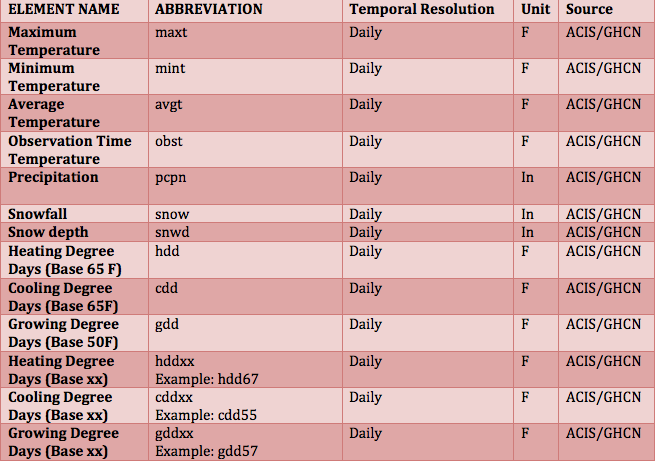
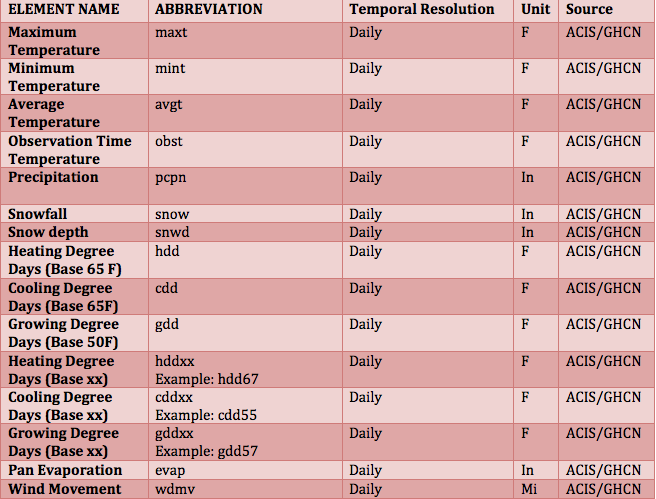
sodxtrmts visualize plotline biug fix

diff --git a/my_acis/templates/my_data/apps/station/home.html b/my_acis/templates/my_data/apps/station/home.html
@@ -112,22 +112,22 @@
             </tr>
             <tr>
                 <td>
-                    {%if stn_id%}
-                        <a  href="{{TOOLS_URL}}station/sodxtrmts/?stn_id={{stn_id}}"><img class="sidebar" alt="Sodxtrmts" title="Sodxtrmts" src="{{MEDIA_URL}}img/SodxtrmtsTS.png"></a>
+                    {%if initial %}
+                        <a  href="{{TOOLS_URL}}station/sodxtrmts/?{%for key, val in initial.items %}{{key}}={{val}}&{%endfor%}"><img class="sidebar" alt="Sodxtrmts" title="Sodxtrmts" src="{{MEDIA_URL}}img/SodxtrmtsTS.png"></a>
                     {%else%}
                         <a  href="{{TOOLS_URL}}station/sodxtrmts/"><img  class="sidebar" alt="Sodxtrmts" title="Sodxtrmts" src="{{MEDIA_URL}}img/SodxtrmtsTS.png"></a>
                     {%endif%}
                 </td>
                 <td>
-                    {%if stn_id%}
-                        <a  href="{{TOOLS_URL}}station/monthly_aves/?stn_id={{stn_id}}"><img class="sidebar" alt="MonAves" title="MonAves" src="{{MEDIA_URL}}img/MonAves.png"></a>
+                    {%if initial%}
+                        <a  href="{{TOOLS_URL}}station/monthly_aves/?{%for key, val in initial.items %}{{key}}={{val}}&{%endfor%}"><img class="sidebar" alt="MonAves" title="MonAves" src="{{MEDIA_URL}}img/MonAves.png"></a>
                     {%else%}
                         <a  href="{{TOOLS_URL}}station/monthly_aves/"><img class="sidebar" alt="MonAves" title="MonAves" src="{{MEDIA_URL}}img/MonAves.png"></a>
                     {%endif%}
                 </td>
                 <td>
-                    {%if stn_id%}
-                        <a  href="{{TOOLS_URL}}station/sodsumm/?stn_id={{stn_id}}"><img class="sidebar" alt="Sodsumm" title="Sodsumm" src="{{MEDIA_URL}}img/SodsummGraph.png"></a>
+                    {%if initial%}
+                        <a  href="{{TOOLS_URL}}station/sodsumm/?{%for key, val in initial.items %}{{key}}={{val}}&{%endfor%}"><img class="sidebar" alt="Sodsumm" title="Sodsumm" src="{{MEDIA_URL}}img/SodsummGraph.png"></a>
                     {%else%}
                         <a  href="{{TOOLS_URL}}station/sodsumm/"><img class="sidebar" alt="Sodsumm" title="Sodsumm" src="{{MEDIA_URL}}img/SodsummGraph.png"></a>
                     {%endif%}

diff --git a/my_acis/templates/my_data/data/station/home.html b/my_acis/templates/my_data/data/station/home.html
@@ -247,17 +247,15 @@
             {%if show_flags%}
                 <h3>ACIS Data Flags: M = Missing, T = Trace, S = Subsequent, A = Accumulated</h3>
             {%endif%}
+            <br />
             {%if results.errors%}
                 <p class="error">{{results.errors}}</p>
             {%endif%}
         <!--Link to relevant apps-->
-        {%if link_to_mon_aves %}
-            <a target="_blank" href="{{TOOLS_URL}}station/monthly_aves/?stn_id={{stn_id}}&start_date={{start_date}}&end_date={{end_date}}&elements={{elements}}">Generate bar charts for this data set here!</a>
+        {%if link_to_station_apps %}
+            <a target="_blank" href="{{TOOLS_URL}}station/?stn_id={{stn_id}}&start_date={{start_date}}&end_date={{end_date}}&elements={{elements}}">Run an application on this data set</a>
         {%endif%}
         <br />
-        {%if link_to_metagraph%}
-            <a target="_blank" href="{{TOOLS_URL}}station/metagraph/?stn_id={{stn_id}}">Generate metadata graphics for this station here!</a>
-        {%endif%}            
 
         {%for stn in stn_idx%}
             <h3>STATION NAME:</h3> 

diff --git a/my_acis/my_data/views.py b/my_acis/my_data/views.py
@@ -286,11 +286,9 @@ def data_station(request):
                     context['elements'] = ','.join(form1.cleaned_data['elements'])
                     context['start_date'] = form1.cleaned_data['start_date']
                     context['end_date'] = form1.cleaned_data['end_date']
-                    if 'station_id' in form1.cleaned_data.keys():
+                    if 'station_id' in form1.cleaned_data.keys() and resultsdict['stn_errors'][0] != 'No data found!':
                         context['stn_id']= form1.cleaned_data['station_id']
-                        context['link_to_mon_aves'] = True
-                        if 'stn_ids' in resultsdict.keys() and resultsdict['stn_ids'][0][0].split(' ')[1] == 'COOP':
-                            context['link_to_metagraph'] = True
+                        context['link_to_station_apps'] = True
                 context['stn_idx'] = [i for i in range(len(resultsdict['stn_ids']))] #for html looping
                 if 'delimiter' in form1.cleaned_data.keys():
                     context['delimiter_word'] = form1.cleaned_data['delimiter']
@@ -641,10 +639,12 @@ def apps_station(request):
     start_date = request.GET.get('start_date', None)
     end_date = request.GET.get('end_date', None)
     elements = request.GET.get('elements', None)
-    if stn_id is not None:context['stn_id'] = stn_id
-    if start_date is not None:context['start_date'] = start_date
-    if end_date is not None:context['end_date'] = end_date
-    if elements is not None:context['elements'] = elements
+    initial = {}
+    if stn_id is not None:context['stn_id'] = stn_id;initial['stn_id'] = stn_id
+    if start_date is not None:context['start_date'] = start_date;initial['start_date'] = start_date
+    if end_date is not None:context['end_date'] = end_date;initial['end_date'] = end_date
+    if elements is not None:context['elements'] = elements;initial['elements'] = elements
+    context['initial'] = initial
     return render_to_response('my_data/apps/station/home.html', context, context_instance=RequestContext(request))
 
 def apps_gridded(request):
@@ -750,7 +750,7 @@ def monthly_aves(request):
             context['elems'] = ','.join(form.cleaned_data['elements'])
             params = dict(sid=stn_id, sdate=s_date, edate=e_date, \
             meta='valid_daterange,name,state,sids,ll,elev,uid,county,climdiv', \
-            elems=[dict(name=el, groupby="year")for el in form.cleaned_data['elements']])
+            elems=[dict(vX=WRCCData.acis_elements_dict[el]['vX'], groupby="year")for el in form.cleaned_data['elements']])
             monthly_aves = {}
             results = [{} for k in form.cleaned_data['elements']]
             #results = defaultdict(dict)
@@ -1235,12 +1235,17 @@ def set_sod_initial(request, app_name):
     end_date  = request.GET.get('end_date', None)
     start_year = request.GET.get('start_year', None)
     end_year  = request.GET.get('end_year', None)
+    element = request.GET.get('elements', None)
+    if element is None:element = request.GET.get('element', None)
     initial ={}
+    if element is not None:initial['element'] = element
     if stn_id is not None:initial['stn_id'] = stn_id
     if app_name in ['Sodsumm', 'Sodxtrmts']:
         initial['date_type'] = 'y'
         if start_year is not None:initial['start_year'] = start_year
         if end_year is not None:initial['end_year'] = end_year
+        if start_date is not None and not start_year:initial['start_year'] = start_date[0:4]
+        if end_date is not None and not end_year:initial['end_year'] = end_date[0:4]
     else:
         initial['date_type'] = 'd'
         if start_date is not None:initial['start_date'] = start_date
@@ -1254,6 +1259,7 @@ def sodxtrmts(request):
         }
     json_file = request.GET.get('json_file', None)
     initial = set_sod_initial(request, 'Sodxtrmts')
+    context['initial'] = initial
     #check if initial dataset is given via json_file (back button from visualize)
     if json_file:
         with open('/tmp/' + json_file, 'r') as f:

diff --git a/my_acis/my_data/forms.py b/my_acis/my_data/forms.py
@@ -408,12 +408,12 @@ class MultiElementField(forms.CharField):
         "Check if value consists only of valid coop_station_ids."
         for el in el_tuple:
             el_strip= re.sub(r'(\d+)(\d+)', '', el) #strip digits from gddxx, hddxx, cddxx
-            if str(el_strip) not in ['pcpn', 'snow', 'snwd', 'maxt', 'mint', 'avgt', 'obst', 'cdd', 'hdd', 'gdd']:
+            if str(el_strip) not in ['pcpn', 'snow', 'snwd', 'maxt', 'mint', 'avgt', 'obst', 'cdd', 'hdd', 'gdd', 'evap', 'wdmv']:
                 raise forms.ValidationError(\
                 mark_safe("elements should be a comma separated list of valid element choices:<br/>") + \
                 mark_safe("pcpn, snow, snwd, <br/>") + \
                 mark_safe("maxt, mint, avgt, <br/>") + \
-                mark_safe("obst, cdd, hdd, gdd <br/>") + \
+                mark_safe("evap, wdmv, obst, cdd, hdd, gdd <br/>") + \
                 mark_safe(" or cddxx, hddxx, gddxx where xx is the base temperature in Fahrenheit, e.g. 68<br/>") + \
                 mark_safe("You entered: %s" %str(el)))
 
@@ -543,26 +543,6 @@ class SodxtrmtsVisualizeForm(forms.Form):
     connector_line_width = forms.FloatField(initial=1, max_value=10, min_value=0, required=False,help_text='Choose the width of the connector line. Choose 0 if you only want to see markers. 10 is the maximum line widh allowed.')
     markers = forms.ChoiceField(choices=([('F', 'No'), ('T', 'Yes')]), required=False, initial='T', help_text='Show markers at each data point.')
     marker_type = forms.ChoiceField(choices=WRCCData.MARKER_CHOICES, required=False, initial='diamond', help_text='.')
-'''
-class SodxtrmtsVisualizeForm(forms.Form):
-    def __init__(self, *args, **kwargs):
-        element = kwargs.get('initial', {}).get('element', None)
-        station_ID = kwargs.get('initial', {}).get('station_ID', None)
-        super(SodxtrmtsVisualizeForm, self).__init__(*args, **kwargs)
-
-        if element is None:
-            element = self.data.get('elements')
-        if station_ID is None:
-            station_ID = self.data.get('station_ID')
-        self.fields['station_ID'] = forms.CharField(initial=station_ID,help_text='Station Identifier')
-        self.fields['station_ID'].widget.attrs = {'readonly':True, 'style':readonly_style}
-        self.fields['element'] = forms.CharField(initial=element,help_text='Climate Element')
-        self.fields['element'].widget.attrs = {'readonly':True, 'style':readonly_style}
-        self.fields['months'] = forms.MultipleChoiceField(widget=CheckboxSelectMultiple, choices=WRCCData.MONTH_CHOICES, initial=WRCCData.MONTH_CHOICES[0], help_text = 'Choose one or more months to analyze.')
-        #self.fields['start_month'] = forms.ChoiceField(choices=WRCCData.MONTH_CHOICES, initial='01', required=False, help_text = 'Start the visualization on this month.')
-        #self.fields['end_month'] = forms.ChoiceField(choices=WRCCData.MONTH_CHOICES, initial='02', required=False, help_text = 'End the visualization on this month.')
-        self.fields['summary'] = forms.ChoiceField(choices=WRCCData.SXTR_SUMMARY_CHOICES, initial='mean', help_text='How to summarize the months.')
-'''
 
 ###############
 #End SODS
